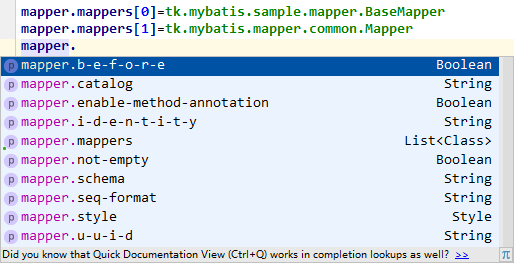
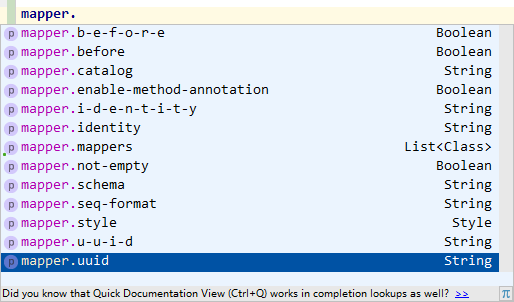
update README.md

diff --git a/mapper-spring-boot-autoconfigure/src/main/java/com/github/pagehelper/autoconfigure/MapperAutoConfiguration.java b/mapper-spring-boot-autoconfigure/src/main/java/com/github/pagehelper/autoconfigure/MapperAutoConfiguration.java
@@ -58,9 +58,7 @@ public class MapperAutoConfiguration {
     @PostConstruct
     public void addPageInterceptor() {
         MapperHelper mapperHelper = new MapperHelper();
-        //设置配置
         mapperHelper.setConfig(properties);
-        // 注册自己项目中使用的通用Mapper接口，这里没有默认值，必须手动注册
         if (properties.getMappers().size() > 0) {
             for (Class mapper : properties.getMappers()) {
                 mapperHelper.registerMapper(mapper);
@@ -68,7 +66,6 @@ public class MapperAutoConfiguration {
         } else {
             mapperHelper.registerMapper(Mapper.class);
         }
-        //配置完成后，执行下面的操作
         mapperHelper.processConfiguration(sqlSessionFactory.getConfiguration());
     }
 }

diff --git a/README.md b/README.md
@@ -37,7 +37,9 @@ mapper.mappers[1]=tk.mybatis.mapper.common.Mapper
 ```
 默认情况下，没有 mappers 配置时，会自动注册 `tk.mybatis.mapper.common.Mapper`
 
-因为通用 Mapper 是固定的属性，所以 IDE 应该可以自动提示：
+因为通用 Mapper 是固定的属性，所以接收参数使用的对象，按照 Spring Boot 配置规则，大写字母都变了带横线的小写字母。针对如 IDENTITY（对应i-d-e-n-t-i-t-y）提供了全小写的 identity 配置，如果 IDE 能自动提示，看自动提示即可。
+
+IDE 应该可以自动提示：
 ![自动提示属性](properties.png)
 
 ## MyBatis Mapper
